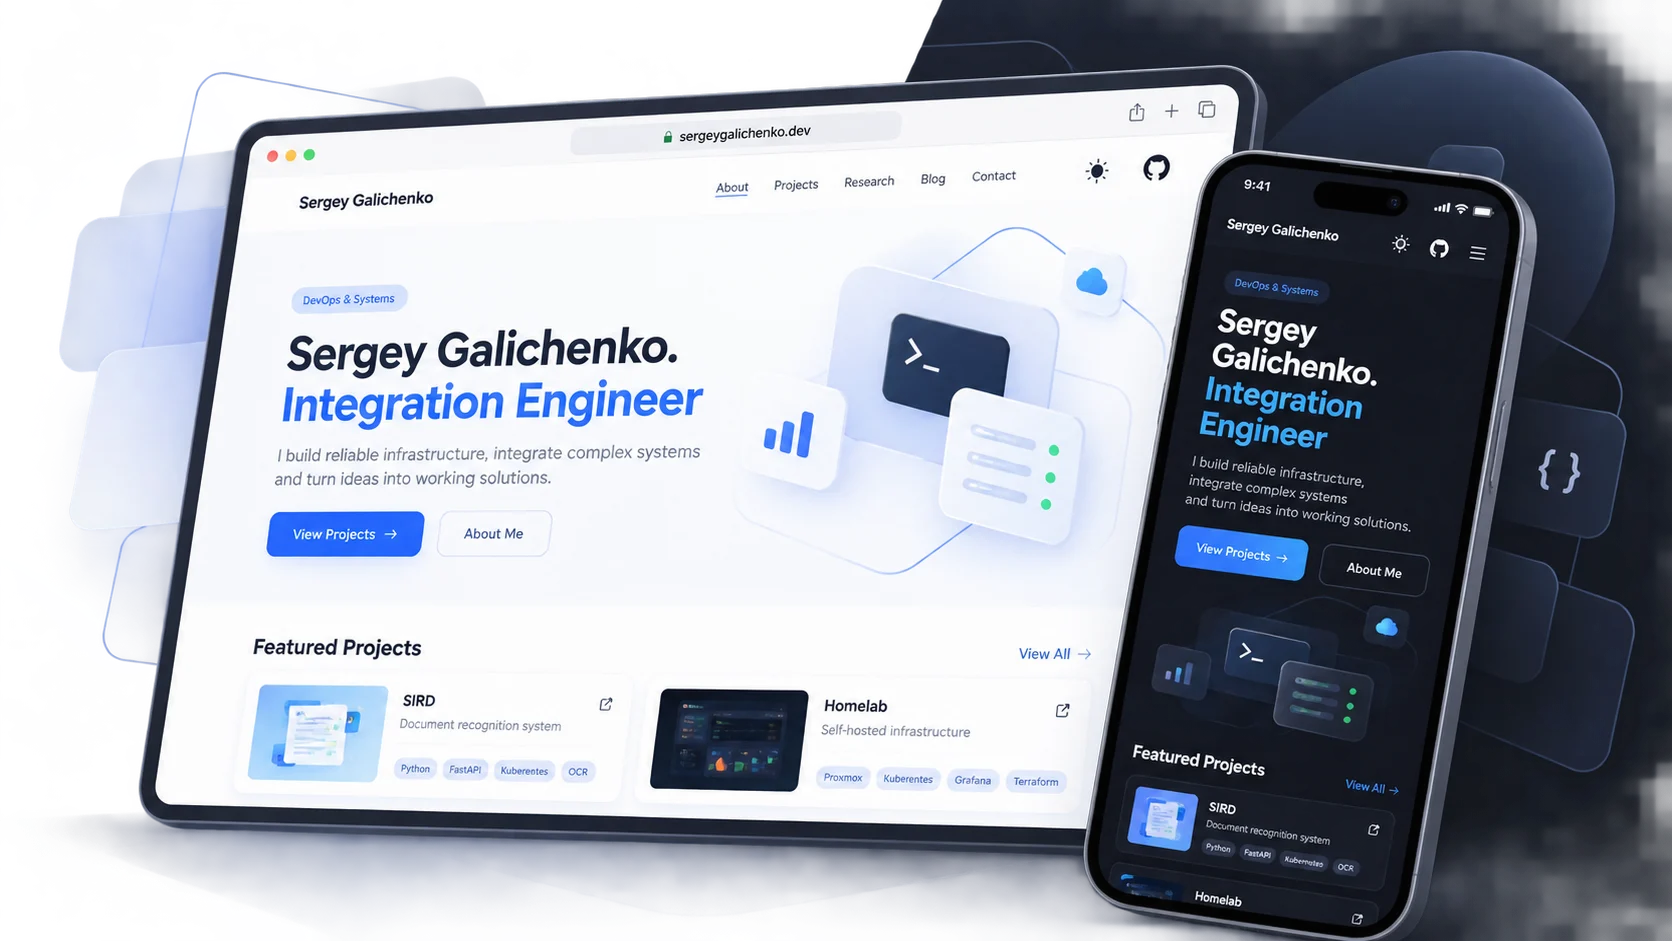
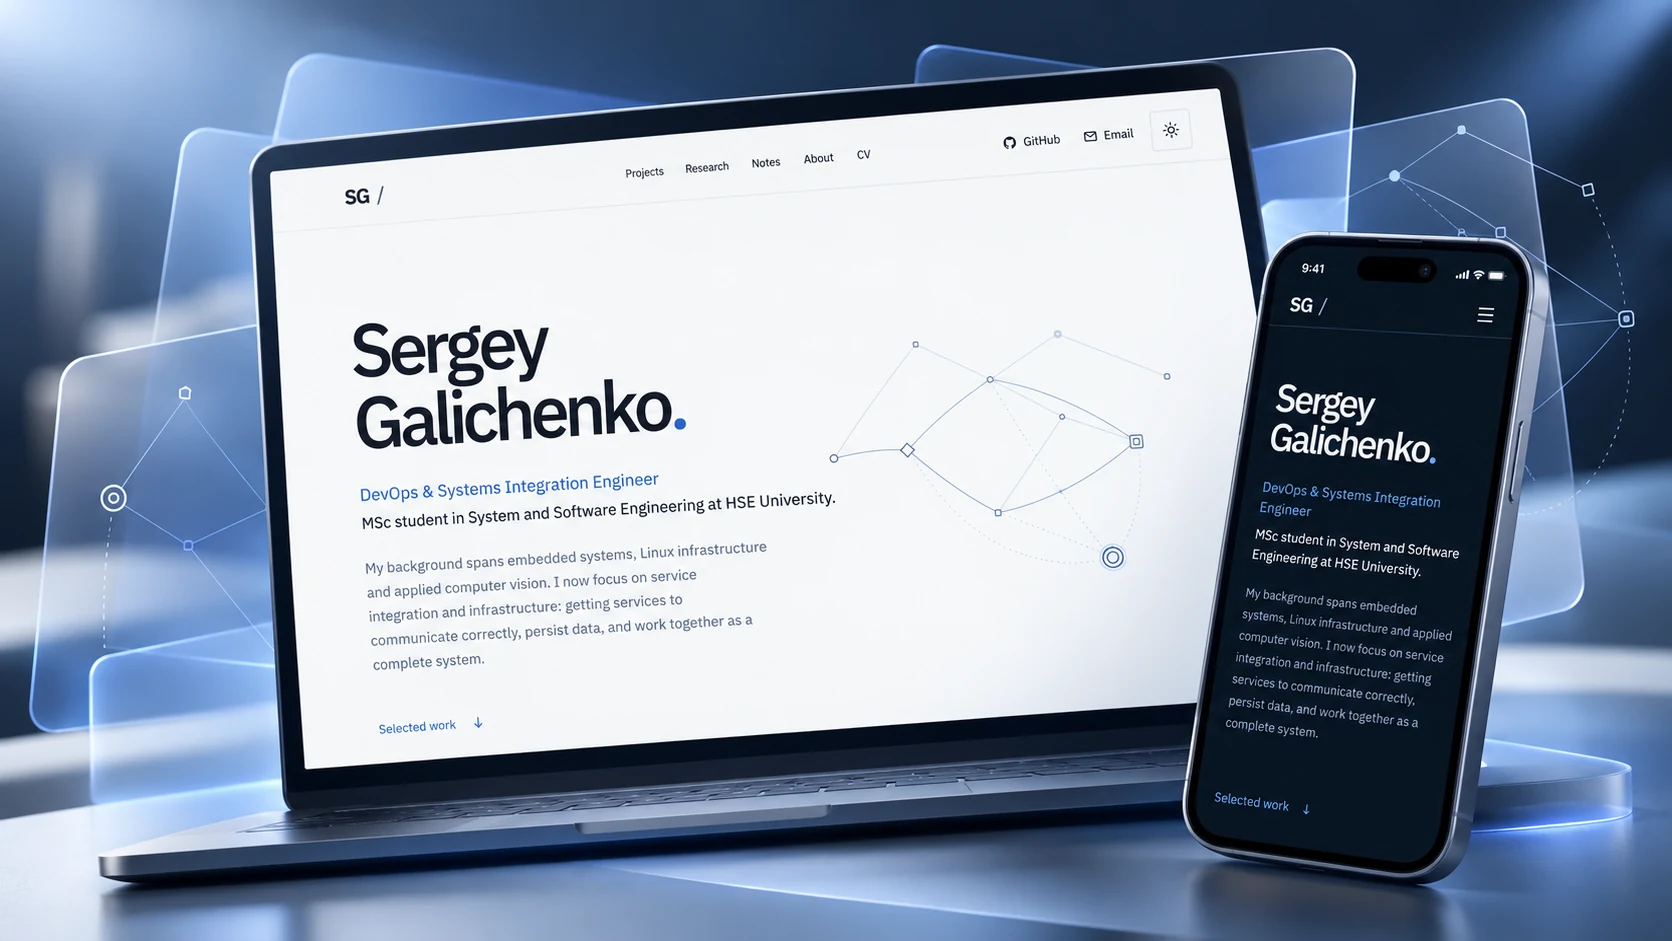
Complete portfolio project and CV release

diff --git a/src/content/cv.ts b/src/content/cv.ts
@@ -65,7 +65,7 @@ export const cvContent: Partial<Record<Locale, CvContent>> = {
       "Resume of Sergey Galichenko, a Software Engineering MSc student focused on DevOps and systems integration, with experience in Linux, Docker, service networking, PostgreSQL and infrastructure automation.",
     title: "Resume",
     professionalTitle: "DevOps & Systems Integration Engineer",
-    pdfPath: undefined,
+    pdfPath: "/files/sergey-galichenko-resume.pdf",
     pdfLabel: "Download PDF",
     pdfUnavailableLabel: "PDF coming soon",
     summaryHeading: "Summary",
@@ -151,10 +151,10 @@ export const cvContent: Partial<Record<Locale, CvContent>> = {
       {
         title: "galichenko.dev",
         context: "Software Engineering · Personal project",
-        period: { start: "2026-09", present: true },
+        period: { start: "2026-09", end: "2026-10" },
         bullets: [
-          "Designed and deployed a static Astro / TypeScript portfolio and research archive with a custom domain and GitHub Pages hosting.",
-          "Automated validation and deployment through GitHub Actions, including linting, type checking and static build before publication.",
+          "Designed and deployed a static Astro / TypeScript engineering portfolio and research archive with typed content, a custom domain and GitHub Pages delivery.",
+          "Built automated validation/deployment and a bounded client-side system interaction model with explicit concurrency, admission-control and recovery behavior.",
         ],
         technologies: ["Astro", "TypeScript", "GitHub Actions", "GitHub Pages"],
         links: [

diff --git a/README.md b/README.md
@@ -1,6 +1,8 @@
 # galichenko.dev
 
-Static Astro + strict TypeScript portfolio. English Home, collection archives, publication details, project case studies and About are content-driven; CV remains a temporary route. GitHub Pages deployment is handled by the repository workflow.
+galichenko.dev is a static Astro + strict TypeScript engineering portfolio and research archive. Projects, research publications, Notes, About and CV are content-driven; GitHub Actions validates and deploys the site to GitHub Pages at sergeygalichenko.dev.
+
+Live: https://sergeygalichenko.dev
 
 ## Local development
 
@@ -48,9 +50,7 @@ docs/deployment.md       GitHub Pages deployment guide
 
 ## Content boundaries
 
-Project covers and the first media on each project case study use supplied real media; later case-study positions remain labelled neutral placeholders until further photographs, diagrams and results are supplied. SIRD technologies and unknown dates/venues are not invented. The UralCon paper remains accepted, not published. Russian UI is ready but its pages are disabled until translations are supplied. Substantive project, publication and About pages are indexed; the unfinished CV route remains noindex.
-
-CV, Russian content, remaining case-study media and hero animation remain outside the current scope.
+English public content is enabled; Russian UI remains disabled until translations are supplied. The CV is a production route with a downloadable resume, and the Home Hero includes a bounded client-side interaction model. The first standalone galichenko.dev version is complete, while project, publication and Notes archives will continue to grow. SIRD technologies and unknown dates or venues are not invented, and the UralCon paper remains accepted rather than published. Remaining media placeholders belong only to case studies that still lack supplied evidence.
 
 In this Codex workspace, Node/pnpm are bundled rather than on the shell PATH. To use the existing installation:
 
